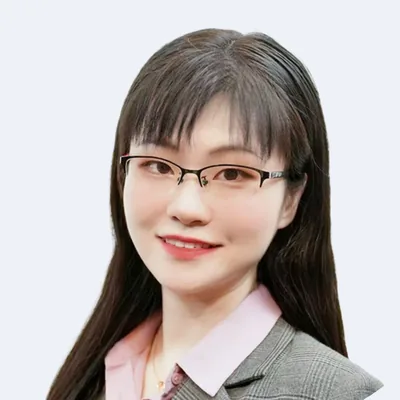
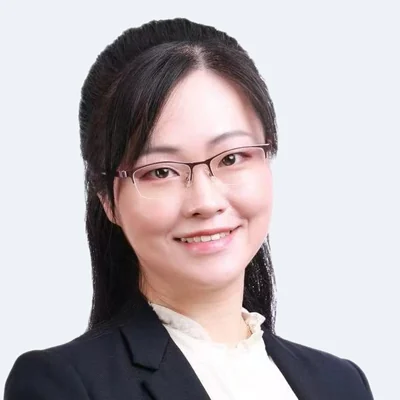
Ink r2 about/team/film: C quote + manifesto, team tagline, film headline, Jin photo/bio
- About: replace A's four-line scrub statement with C's blockquote
  (周雖舊邦，其命維新。/《詩經 · 大雅 · 文王》) and C's manifesto, styled with
  C's .quote/.manifesto; A's English line, pillars-lead, pillars and origin stay.
  Drop the now-unused .statement CSS and the [data-scrub] JS driver.
- Team: add C's 懂課堂，也懂技術。 tagline and 同坐一張書案 lead under A's h2/English.
- Film wall: add C's gold kicker 宣傳片 · 一分零五秒 and film-name headline
  above the frame (mobile padding aligned with the bleed frame).
- 金夢瑤: new photo (team-jin.webp) and first bio line 香港教育專業發展促進會常務理事.

diff --git a/index.html b/index.html
@@ -93,7 +93,11 @@
     <div class="juan-body">
       <p class="kicker" data-reveal>關於我們 · About</p>
       <h2 class="sr" id="about-title">關於 AIDUCATION</h2>
-      <p class="statement" data-scrub><span>我們是一支由教育學者與工程師組成的團隊。</span><span>我們相信，AI 不只是批改作業的工具——</span><span>它能讓孩子開口讀詩、走進詩裡，</span><span>愛上自己的語言與文化。</span></p>
+      <blockquote class="quote" data-reveal>
+        <p><span class="nb">周雖舊邦，</span><span class="nb">其命維新。</span></p>
+        <cite>《詩經 · 大雅 · 文王》</cite>
+      </blockquote>
+      <p class="manifesto" data-reveal>最古老的文字，也值得最新的技術。AIDUCATION 由香港的中文教育學者、前線教師與工程師組成，把課程設計、評估研究與 AI 工程放在同一張書案上，做孩子真正愛用、老師真正好用的中文學習產品。</p>
       <p class="statement-en en" lang="en" data-reveal>We are educators and engineers building AI that helps children read classical poems aloud, step inside them, and fall in love with their own language and culture.</p>
       <p class="pillars-lead" data-reveal>融合 <span class="grad">AR、數字人、<span class="nw">大語言模型與具身智能</span></span>，<span class="nb">打造下一代沉浸式中文教育。</span></p>
       <div class="pillars">
@@ -114,9 +118,11 @@
       <p class="kicker" data-reveal>團隊 · Team</p>
       <h2 class="h-l" id="team-title" data-reveal>教育學者 × 工程師</h2>
       <p class="h-en en" lang="en" data-reveal>Educators and engineers, side by side.</p>
+      <p class="team-tag" data-reveal>懂課堂，也懂技術。</p>
+      <p class="team-lead" data-reveal>中文教育學者、前線教師與全棧工程師，同坐一張書案。</p>
       <ul class="team">
         <li class="member" data-reveal><div class="medal"><img src="assets/img/team-fan.webp" width="400" height="400" loading="lazy" decoding="async" alt="范釔君"></div><h3>范釔君</h3><p class="role">AIDUCATION CFO</p><ul class="bio"><li>聖若瑟大學教育學院高級講師</li><li>香港教育大學教育學博士</li><li>榮獲多個國際賽事獎項，致力於 AI 教育的創新研究</li></ul></li>
-        <li class="member" data-reveal><div class="medal"><img src="assets/img/team-jin.webp" width="400" height="400" loading="lazy" decoding="async" alt="金夢瑤"></div><h3>金夢瑤</h3><p class="role">香港教育大學國學中心聯席總監</p><ul class="bio"><li>香港考試及評核局科目委員會委員</li><li>中文電子化教學專家</li><li>深耕中文電子化課程改革和評估研究</li></ul></li>
+        <li class="member" data-reveal><div class="medal"><img src="assets/img/team-jin.webp" width="400" height="400" loading="lazy" decoding="async" alt="金夢瑤"></div><h3>金夢瑤</h3><p class="role">香港教育大學國學中心聯席總監</p><ul class="bio"><li>香港教育專業發展促進會常務理事</li><li>香港考試及評核局科目委員會委員</li><li>中文電子化教學專家</li><li>深耕中文電子化課程改革和評估研究</li></ul></li>
         <li class="member" data-reveal><div class="medal"><img src="assets/img/team-tsang.webp" width="400" height="400" loading="lazy" decoding="async" alt="曾綽琳"></div><h3>曾綽琳</h3><p class="role">香港寶覺中學老師</p><ul class="bio"><li>香港教育大學學士，香港大學在讀碩士</li><li>香港準教師協會副主席</li><li>香港兒童文藝協會會員</li></ul></li>
         <li class="member" data-reveal><div class="medal"><img src="assets/img/team-ning.webp" width="400" height="400" loading="lazy" decoding="async" alt="寧楊添"></div><h3>寧楊添</h3><p class="role">AIDUCATION 技術總監</p><ul class="bio"><li>擁有電機工程專業背景的軟硬件全棧工程師</li><li>主導研發 AI 驅動多語言古詩互動教學系統</li><li>具備從底層硬件到 AI 應用的全鏈路開發能力</li></ul></li>
       </ul>
@@ -153,6 +159,8 @@
     <div class="wall-in">
       <div class="juan-head juan-head-gold" aria-hidden="true"><span class="juan-no">卷四</span><span class="v-title"><span class="ink-in">開口成詩</span></span><span class="juan-en">Film</span></div>
       <div class="film-body">
+        <p class="kicker kicker-gold" data-reveal>宣傳片 · 一分零五秒</p>
+        <h3 class="film-name" data-reveal>六十五秒，<wbr>看一首古詩如何變成一堂課</h3>
         <div class="film" data-reveal>
           <div class="film__frame">
             <video playsinline preload="none" data-src="assets/video/aiducation-promo-720.mp4" aria-label="AI 普通話學習平台宣傳片"></video>

diff --git a/assets/home.css b/assets/home.css
@@ -177,10 +177,10 @@ html.js [data-reveal].is-in{opacity:1;transform:none}
 .brush.is-in::after,.is-in .brush::after,html:not(.js) .brush::after{clip-path:inset(0 0 0 0)}
 
 /* 卷一 about */
-.statement{margin-top:10px;max-width:24em;font-weight:600;font-size:clamp(25px,2.7vw,40px);line-height:1.6;letter-spacing:.06em}
-html.js .statement span{color:rgba(28,26,23,.24);transition:color .6s var(--ease)}
-html.js .statement span.is-on{color:var(--ink)}
-@media (min-width:901px){.statement span{display:block}}
+.quote{margin:10px 0 40px}
+.quote p{font-size:clamp(30px,3.2vw,46px);font-weight:600;line-height:1.35;letter-spacing:.14em}
+.quote cite{display:block;margin-top:12px;font-style:normal;font-size:14px;letter-spacing:.24em;color:var(--grey)}
+.manifesto{font-size:clamp(17px,1.35vw,19px);line-height:2.05;color:var(--ink-2);max-width:37em}
 .statement-en{margin-top:26px;max-width:46em;font-size:clamp(15px,1.15vw,17px);line-height:1.8}
 .pillars-lead{margin-top:clamp(56px,7vw,92px);max-width:24em;font-size:clamp(21px,2vw,28px);font-weight:600;line-height:1.6;letter-spacing:.05em}
 .pillars{margin-top:clamp(28px,3.4vw,44px);display:grid;grid-template-columns:repeat(3,minmax(0,1fr));gap:clamp(16px,2vw,28px)}
@@ -210,6 +210,8 @@ html.js .statement span.is-on{color:var(--ink)}
 .bio{font-size:14px;line-height:1.85;color:var(--ink-2);max-width:17em;margin:0 auto}
 .bio li{text-wrap:balance}
 .bio li+li{margin-top:5px}
+.team-tag{margin-top:34px;font-size:clamp(20px,1.8vw,26px);font-weight:600;line-height:1.65;letter-spacing:.12em}
+.team-lead{margin-top:10px;max-width:31em;color:var(--ink-2);letter-spacing:.04em;text-wrap:balance}
 
 /* 卷三 platform */
 .p-head{display:grid;grid-template-columns:minmax(0,1.35fr) minmax(0,1fr);gap:clamp(24px,4vw,60px);align-items:end}
@@ -252,6 +254,8 @@ html.js .statement span.is-on{color:var(--ink)}
 .juan-head-gold .v-title .ink-in{background:linear-gradient(180deg,#f8e7b6 0%,#d8ae58 45%,#f3d993 70%,#c2963f 100%);-webkit-background-clip:text;background-clip:text;color:transparent}
 .juan-head-gold .juan-en{color:rgba(243,228,203,.72);background-image:linear-gradient(var(--gold-l),var(--gold-l))}
 .film-body{grid-column:1;grid-row:1;min-width:0}
+.kicker-gold{color:var(--gold-l)}
+.film-name{font-weight:900;font-size:clamp(28px,3vw,44px);line-height:1.35;letter-spacing:.06em;color:#fbefd9;margin-bottom:clamp(30px,4.5vh,48px)}
 .film__frame{position:relative;padding:12px;background:linear-gradient(135deg,#ecd28f 0%,#a98440 22%,#f4dea2 48%,#9c7838 74%,#e0c27c 100%);
   box-shadow:0 0 0 1px rgba(60,20,5,.5),0 46px 90px -34px rgba(25,3,0,.8)}
 .film__frame::before{content:"";display:block;aspect-ratio:16/9;background:#1d1b18;box-shadow:0 0 0 1px rgba(60,30,6,.7)}
@@ -568,6 +572,8 @@ html.js .statement span.is-on{color:var(--ink)}
   .play-seal::after{inset:-8px}
   .play-txt{font-size:13px;letter-spacing:.14em;padding:4px 12px 4px 14px}
   .film__cap{padding:0 calc(var(--pad) - 8px);font-size:13px}
+  .film-body>.kicker,.film-name{padding:0 calc(var(--pad) - 8px)}
+  .film-name{font-size:26px;word-break:keep-all;overflow-wrap:anywhere}
   .wall{padding-top:150px}
   .team{grid-template-columns:minmax(0,1fr);gap:0}
   .member{display:grid;grid-template-columns:96px minmax(0,1fr);column-gap:20px;align-items:start;text-align:left;padding:26px 0;border-top:1px solid var(--line)}

diff --git a/assets/home.js b/assets/home.js
@@ -73,7 +73,6 @@
   }
 
   /* ---------------- scroll-linked bits ---------------- */
-  var scrubSpans = $$('[data-scrub] span');
   var ticking = false;
 
   /* village reel: pinned horizontal scroll on wide screens (html.reel-on), stacked panels otherwise */
@@ -104,11 +103,6 @@
     var vh = win.innerHeight, y = win.pageYOffset, max = root.scrollHeight - vh;
     nav.classList.toggle('is-scrolled', y > 40);
     if (prog) prog.style.setProperty('--p', max > 0 ? clamp(y / max, 0, 1).toFixed(4) : '0');
-    if (!reduce) {
-      scrubSpans.forEach(function (s) {
-        s.classList.toggle('is-on', s.getBoundingClientRect().top < vh * 0.72);
-      });
-    }
     updateReel(vh);
     var line = vh * 0.4, cur = null;
     navTargets.forEach(function (t) {
@@ -131,7 +125,6 @@
       layoutReel(); onScroll();
     }, 120);
   });
-  if (reduce) scrubSpans.forEach(function (s) { s.classList.add('is-on'); });
   layoutReel();
   onScroll();
 
